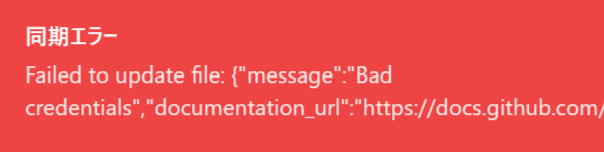
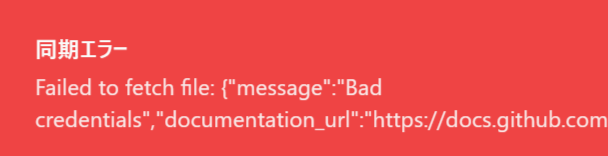
Agent query: GitHub同期ボタンを押して、同期が正しく動作するか確認してください。認証エラーが解消されているはずです。
Improve GitHub API interaction and remove deprecated my-events endpoint.

Screenshot: https://storage.googleapis.com/screenshot-production-us-central1/c61d3528-edd6-4051-ba35-615d420eb148/093e02c4-59dd-45ce-814d-2d7b0b0ba412.jpg

Changed region(s): [[0.0298, 0.4211, 1.0, 0.8684], [0.0298, 0.1579, 0.2086, 0.3947], [0.2384, 0.8158, 0.2682, 0.8421]]

diff --git a/server/routes.ts b/server/routes.ts
@@ -66,7 +66,7 @@ class GitHubFileUpdater {
   private getHeaders(): HeadersInit {
     return {
       'Accept': 'application/vnd.github.v3+json',
-      'Authorization': `token ${this.token}`,
+      'Authorization': `Bearer ${this.token.trim()}`,
       'Content-Type': 'application/json',
       'User-Agent': 'ScrumFestMap'
     };
@@ -75,6 +75,7 @@ class GitHubFileUpdater {
   public async updateFile(path: string, content: string, message: string): Promise<GitHubUpdateResponse> {
     const url = `https://api.github.com/repos/${this.owner}/${this.repo}/contents/${path}`;
     console.log('Updating file at:', url);
+    console.log('Token prefix:', this.token.substring(0, 4) + '...');
 
     try {
       // 1. 既存ファイルの情報を取得
@@ -86,6 +87,8 @@ class GitHubFileUpdater {
       if (!fileResponse.ok) {
         const errorText = await fileResponse.text();
         console.error('Failed to fetch file:', errorText);
+        console.error('Response status:', fileResponse.status);
+        console.error('Response headers:', JSON.stringify(Object.fromEntries(fileResponse.headers.entries()), null, 2));
         throw new Error(`Failed to fetch file: ${errorText}`);
       }
 
@@ -107,6 +110,8 @@ class GitHubFileUpdater {
       if (!updateResponse.ok) {
         const errorText = await updateResponse.text();
         console.error('Failed to update file:', errorText);
+        console.error('Response status:', updateResponse.status);
+        console.error('Response headers:', JSON.stringify(Object.fromEntries(updateResponse.headers.entries()), null, 2));
         throw new Error(`Failed to update file: ${errorText}`);
       }
 
@@ -383,6 +388,7 @@ export function setupRoutes(app: Express) {
     }
   });
 
+
   // イベントの更新エンドポイント
   app.put("/api/events/:eventId", async (req, res) => {
     if (!req.isAuthenticated()) {
@@ -625,29 +631,6 @@ export function setupRoutes(app: Express) {
     }
   });
 
-  // マイイベント取得
-  app.get("/api/my-events", async (req, res) => {
-    if (!req.isAuthenticated()) {
-      return res.status(401).json({ error: "Not authenticated" });
-    }
-
-    try {
-      const userEvents = await db
-        .select()
-        .from(events)
-        .where(
-          and(
-            eq(events.createdBy, req.user.id),
-            eq(events.isArchived, false)
-          )
-        )
-        .orderBy(desc(events.date));
-
-      res.json(userEvents);
-    } catch (error) {
-      res.status(500).json({ error: "Failed to fetch events" });
-    }
-  });
 
   app.post("/api/admin/demote/:userId", requireAdmin, async (req, res) => {
     try {
